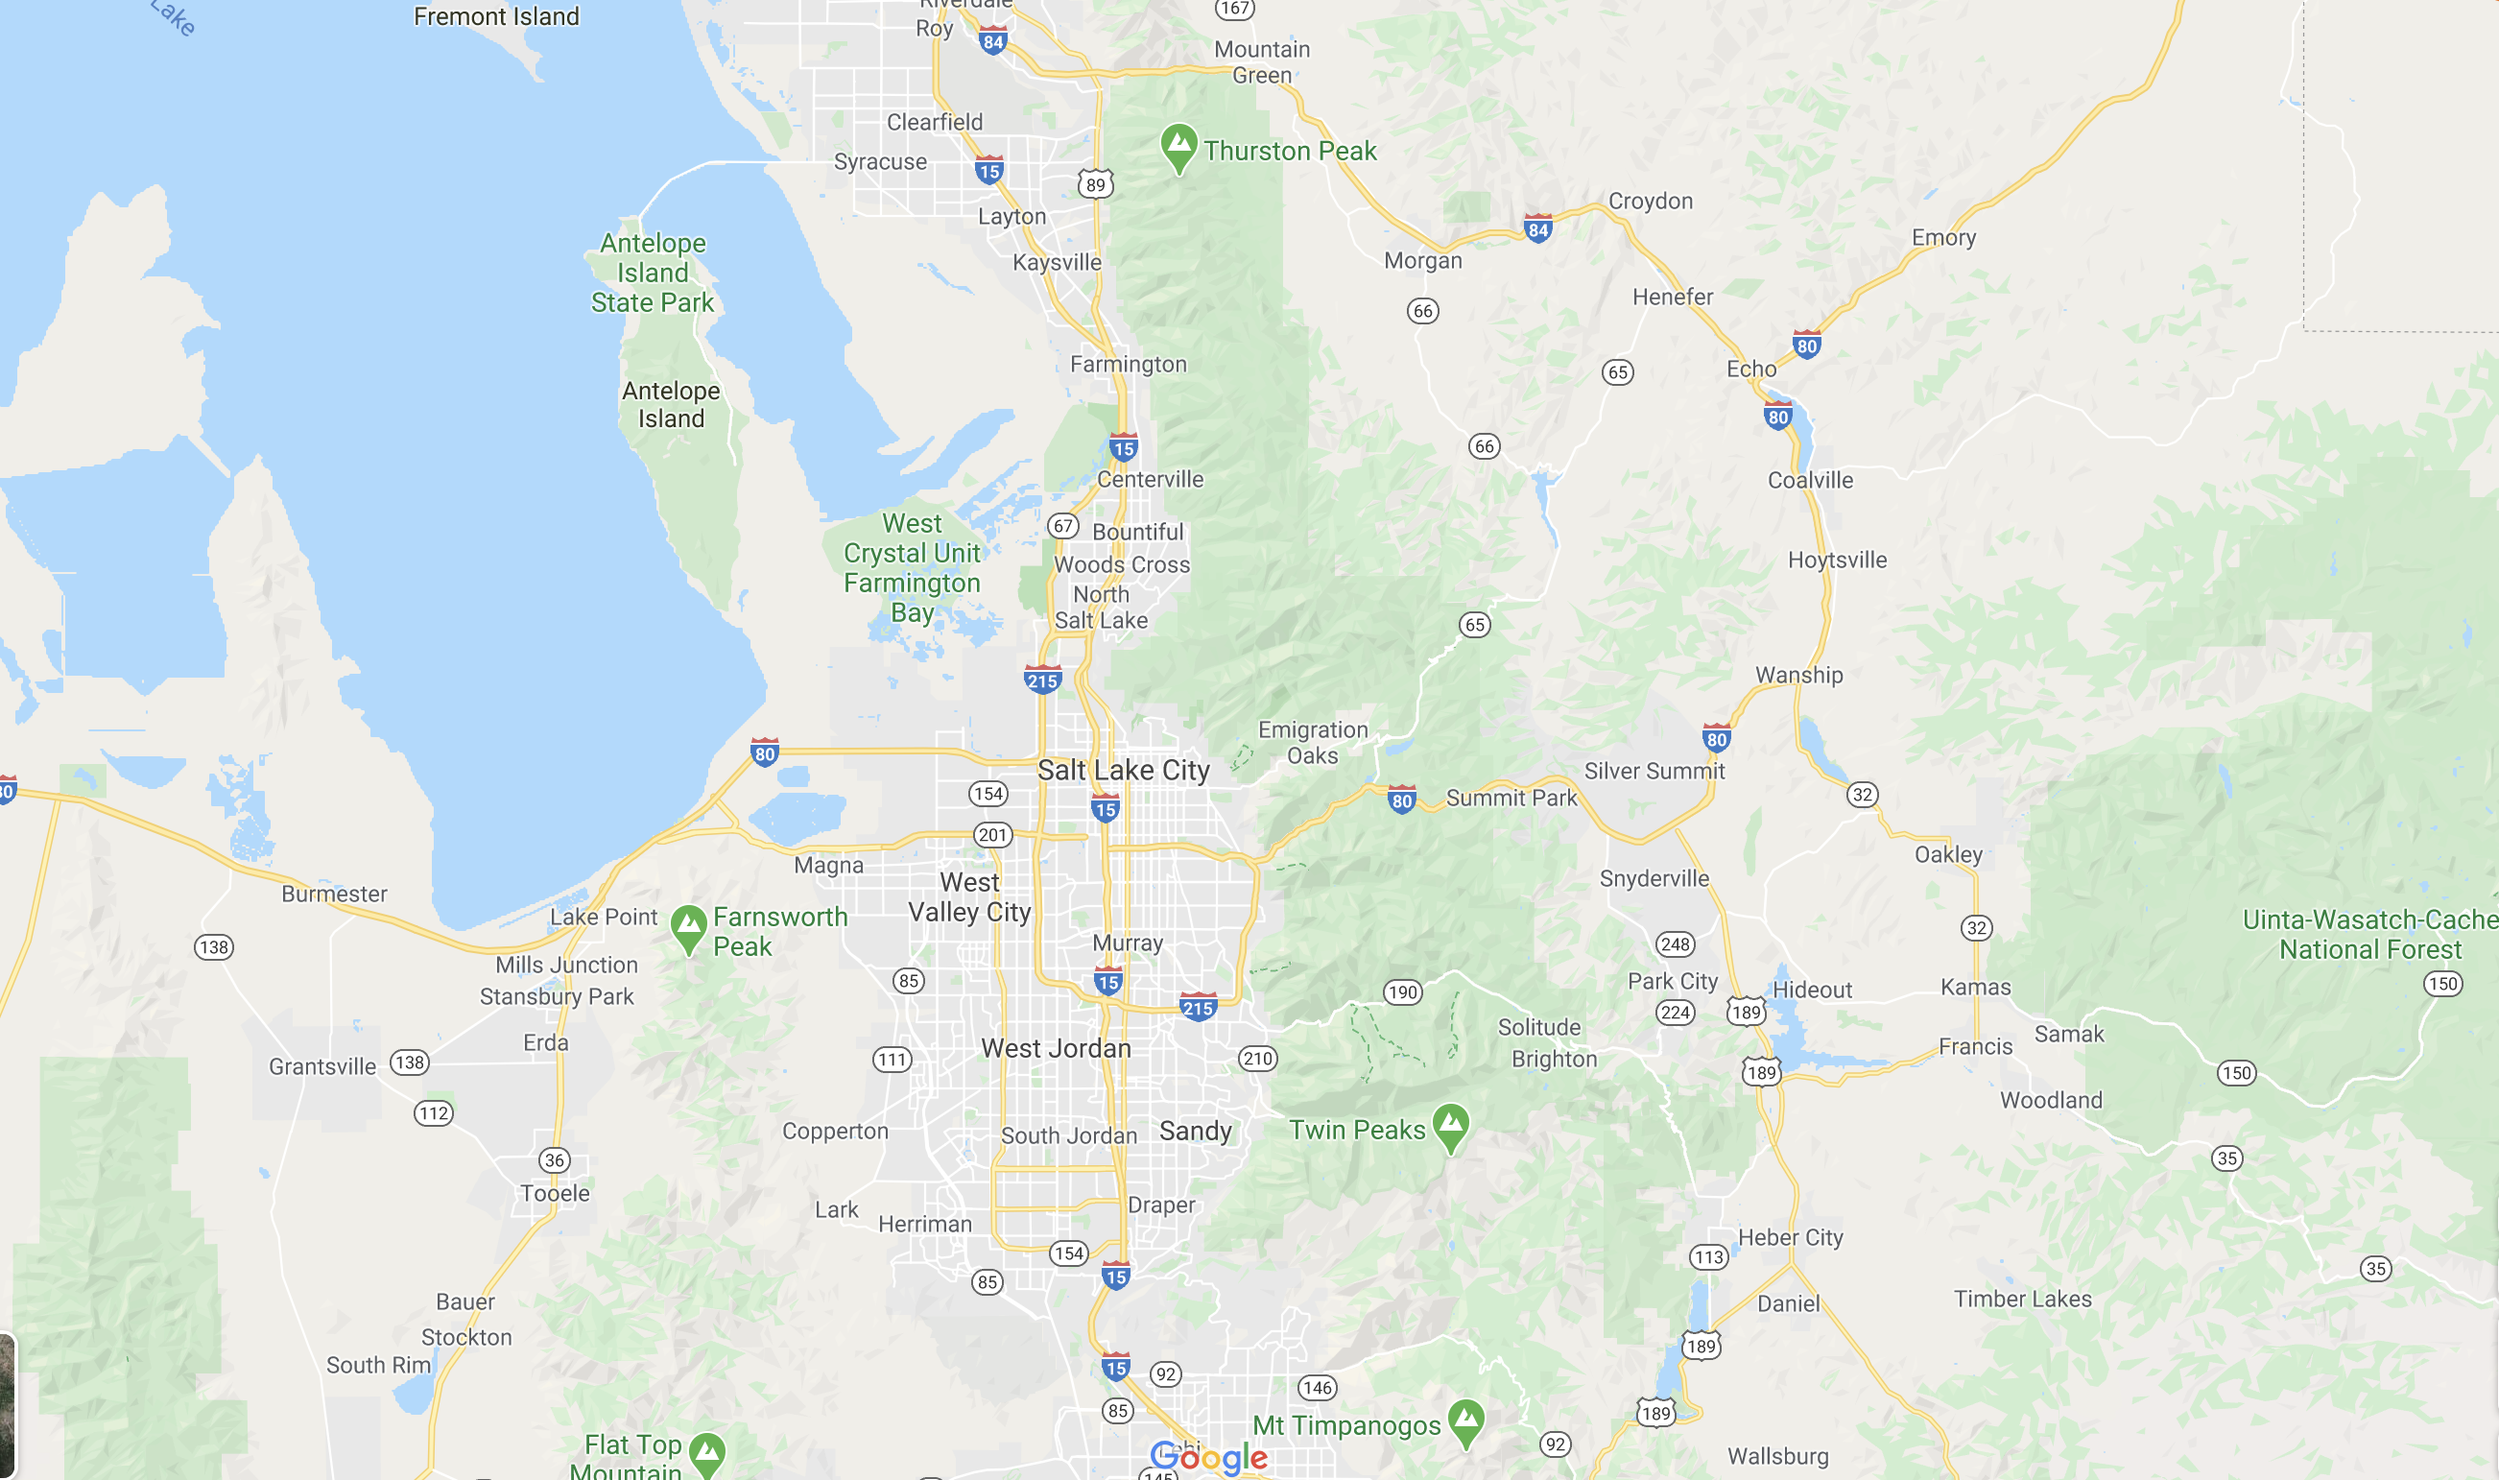
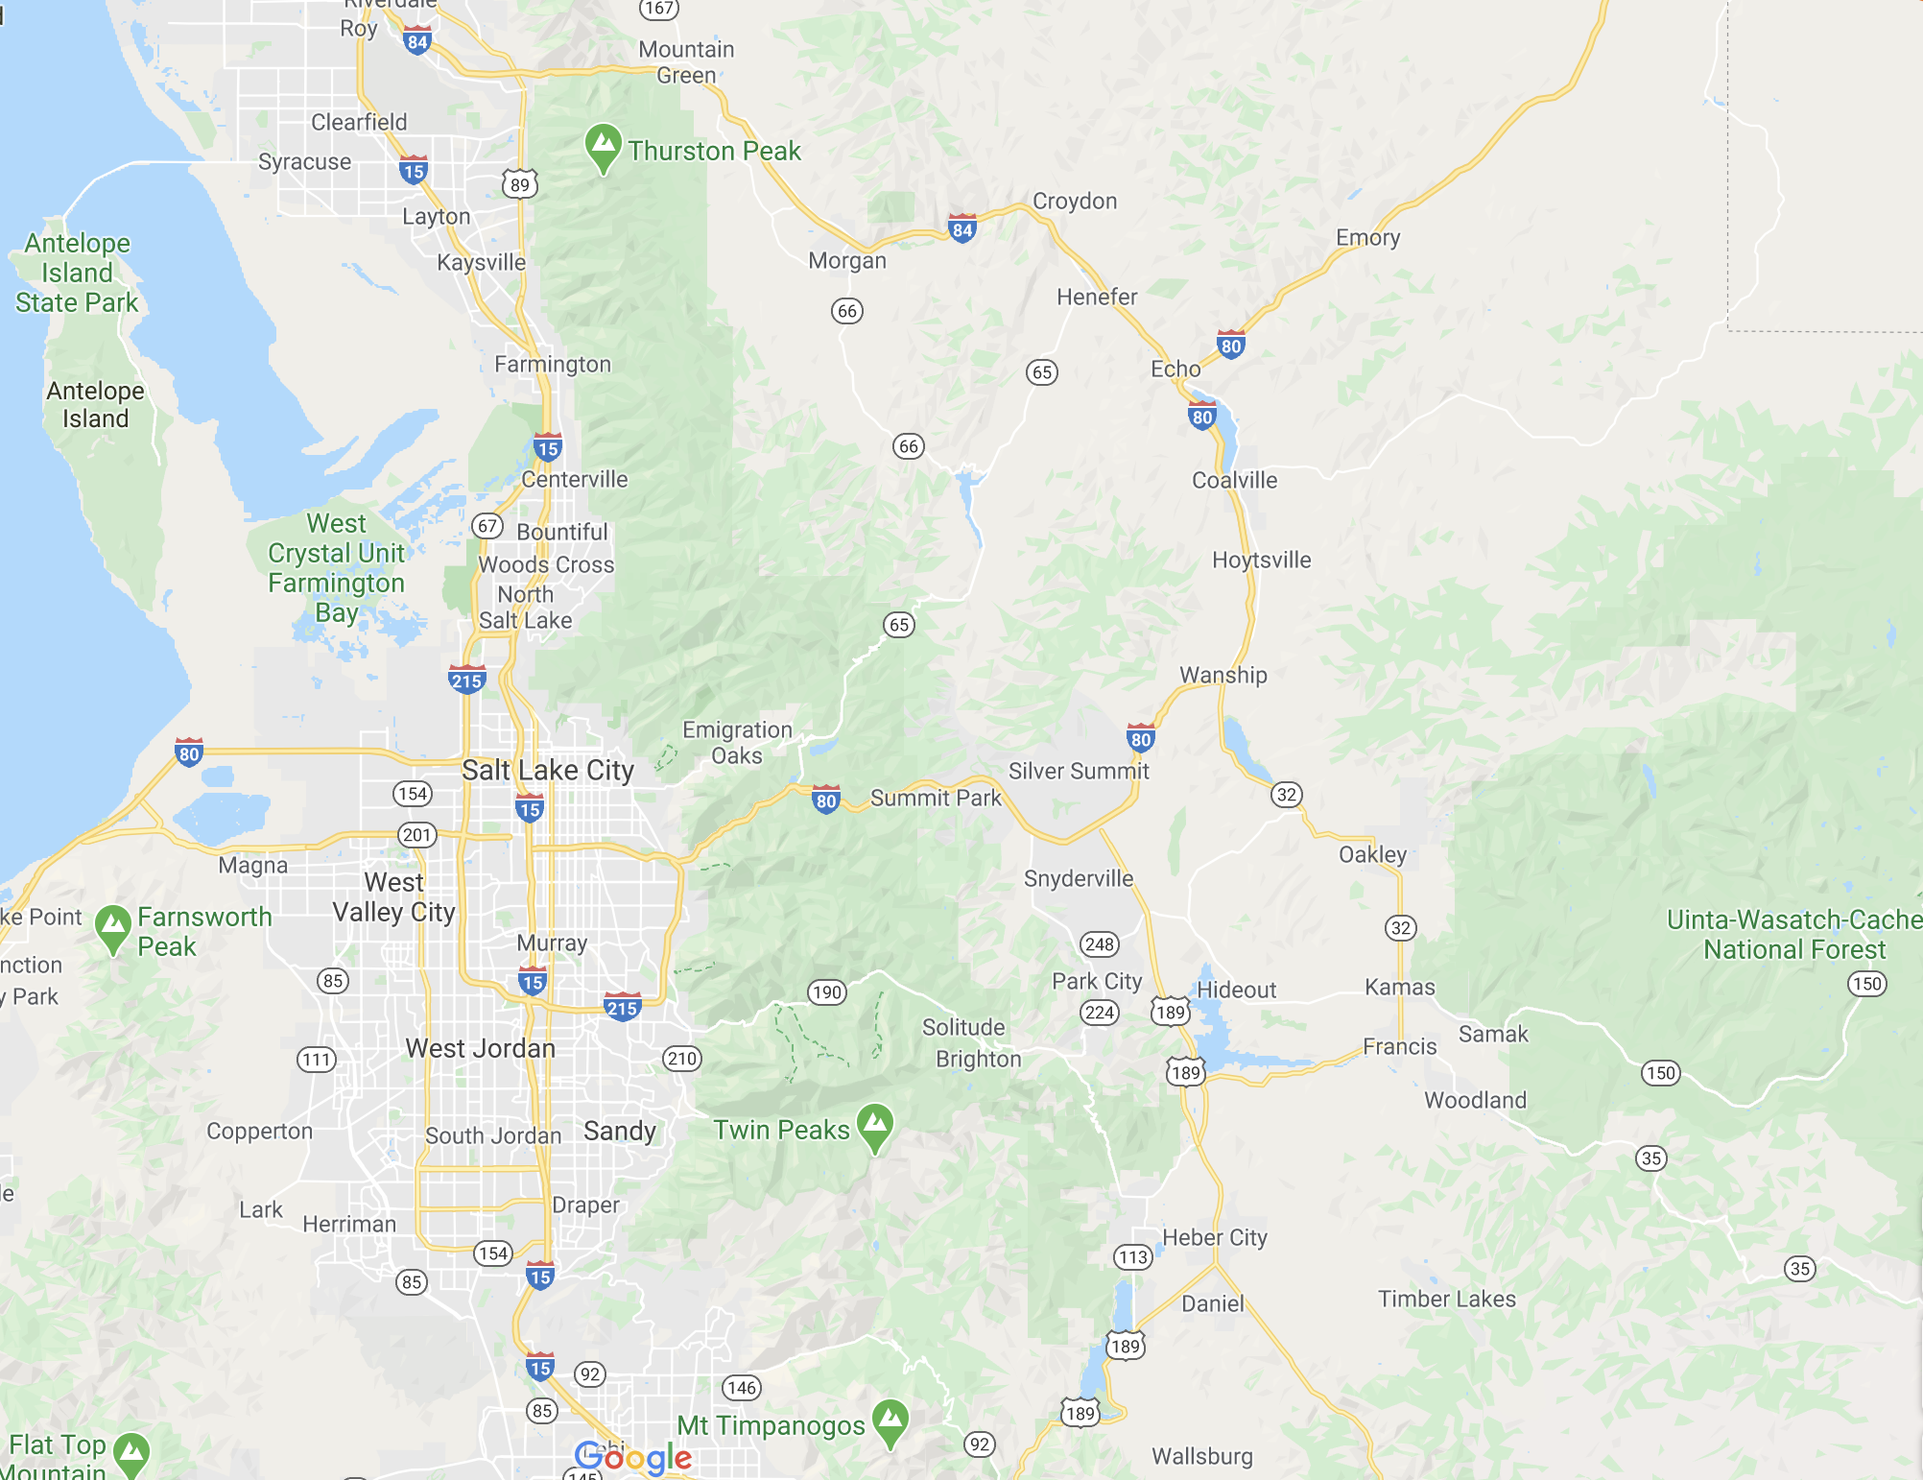
Added Highway with multiple gates

diff --git a/src/component.js b/src/component.js
@@ -15,8 +15,10 @@ class Component extends React.Component {
         let name = 'Component';
         let state = 'On';
         let status = 'Operational';
-        let width = 128;
-        let height = 128;
+        let width = 64;
+        let height = 64;
+        let x = 0;
+        let y = 0;
 
         // Override defaults based on props
         if (this.props.hasOwnProperty('name')) {
@@ -39,6 +41,14 @@ class Component extends React.Component {
             height = this.props.height;
         }
 
+        if (this.props.hasOwnProperty('x')) {
+            x = this.props.x;
+        }
+
+        if (this.props.hasOwnProperty('y')) {
+            y = this.props.y;
+        }
+
         // Create references
         this.figureRef = React.createRef();
         this.figureImageref = React.createRef();
@@ -47,6 +57,8 @@ class Component extends React.Component {
         this.state = {
             width: width,
             height: height,
+            x: x,
+            y: y,
             name: name,
             showName: false,
             state: state,
@@ -66,7 +78,7 @@ class Component extends React.Component {
     // Set which image to display
     setImage = () => {
         if (this.state.circle) {
-            this.setState({image: "/Images/gate_circled.png"});
+            this.setState({image: "/Images/gate-green-circle.svg"});
         } else {
             this.setState({image: "/Images/gate-green.svg"});
         }
@@ -148,7 +160,13 @@ class Component extends React.Component {
 
     render() {
         return (
-            <>
+            <div
+                style={{
+                    position: 'absolute',
+                    left: this.state.x,
+                    top: this.state.y
+                }}
+            >
                 <Figure
                     id={this.props.componentID}
                     ref={this.figureRef}
@@ -166,7 +184,7 @@ class Component extends React.Component {
                     {this.state.caption}
                 </Figure>
                 <Overlay
-                    target={this.figureRef}
+                    target={this.figureImageRef}
                     show={this.state.showSummary}
                     placement="right"
                 >
@@ -185,7 +203,7 @@ class Component extends React.Component {
                     )}
                 </Overlay>
                 <Overlay
-                    target={this.figureRef}
+                    target={this.figureImageRef}
                     show={this.state.showDetailedStatus}
                     placement="bottom"
                 >
@@ -204,7 +222,7 @@ class Component extends React.Component {
                     )}
                 </Overlay>
                 <Overlay
-                    target={this.figureRef}
+                    target={this.figureImageRef}
                     show={this.state.showControl}
                     placement="right"
                 >
@@ -234,7 +252,7 @@ class Component extends React.Component {
                         </Popover>
                     )}
                 </Overlay>
-            </>
+            </div>
         )
     }
 }

diff --git a/src/gate.js b/src/gate.js
@@ -194,7 +194,13 @@ class Gate extends Component {
 
     render() {
         return (
-            <>
+            <div
+                style={{
+                    position: 'absolute',
+                    left: this.state.x,
+                    top: this.state.y
+                }}
+            >
                 <Figure
                     id={this.props.componentID}
                     ref={this.figureRef}
@@ -212,7 +218,7 @@ class Gate extends Component {
                     {this.state.caption}
                 </Figure>
                 <Overlay
-                    target={this.figureRef}
+                    target={this.figureImageRef}
                     show={this.state.showSummary}
                     placement="right"
                 >
@@ -231,7 +237,7 @@ class Gate extends Component {
                     )}
                 </Overlay>
                 <Overlay
-                    target={this.figureRef}
+                    target={this.figureImageRef}
                     show={this.state.showDetailedStatus}
                     placement="bottom"
                 >
@@ -250,7 +256,7 @@ class Gate extends Component {
                     )}
                 </Overlay>
                 <Overlay
-                    target={this.figureRef}
+                    target={this.figureImageRef}
                     show={this.state.showControl}
                     placement="right"
                 >
@@ -281,7 +287,7 @@ class Gate extends Component {
                         </Popover>
                     )}
                 </Overlay>
-            </>
+            </div>
         );
     }
 }

diff --git a/src/index.js b/src/index.js
@@ -5,4 +5,26 @@ import Popups from './popups.js';
 import CMS from './cms.js';
 import Component from './component.js';
 
-ReactDOM.render(<Gate componentID={1} />, document.getElementById('root'));
+class Highway extends React.Component {
+    constructor(props) {
+        super(props);
+    }
+
+    render() {
+        return (
+            <div
+                style={{
+                    height: 1542,
+                    backgroundImage: 'url(/Images/I-15-Map.png)',
+                    backgroundRepeat: 'no-repeat',
+                    backgroundSize: 'auto'
+                }}
+            >
+                <Gate componentID={1} x={530} y={325} name='Farmington Gate' />
+                <Gate componentID={2} x={520} y={50} name='I-84 Gate' />
+            </div>
+        );
+    }
+}
+
+ReactDOM.render(<Highway />, document.getElementById('root'));

diff --git a/public/index.html b/public/index.html
@@ -11,9 +11,12 @@
     <script src="https://cdn.jsdelivr.net/npm/popper.js@1.16.0/dist/umd/popper.min.js" integrity="sha384-Q6E9RHvbIyZFJoft+2mJbHaEWldlvI9IOYy5n3zV9zzTtmI3UksdQRVvoxMfooAo" crossorigin="anonymous"></script>
     <script src="https://stackpath.bootstrapcdn.com/bootstrap/4.5.0/js/bootstrap.min.js" integrity="sha384-OgVRvuATP1z7JjHLkuOU7Xw704+h835Lr+6QL9UvYjZE3Ipu6Tp75j7Bh/kR0JKI" crossorigin="anonymous"></script>
     
+    <!-- Local Stylesheet -->
+    <link rel="stylesheet" href="body.css" />
+
     <title>Assignment 5</title>
   </head>
-  <body>
+  <body style=>
     <div id="root"></div>
   </body>
 </html>

diff --git a/public/body.css b/public/body.css
@@ -1,0 +1,3 @@
+body {
+    background-color: #000000;
+}
